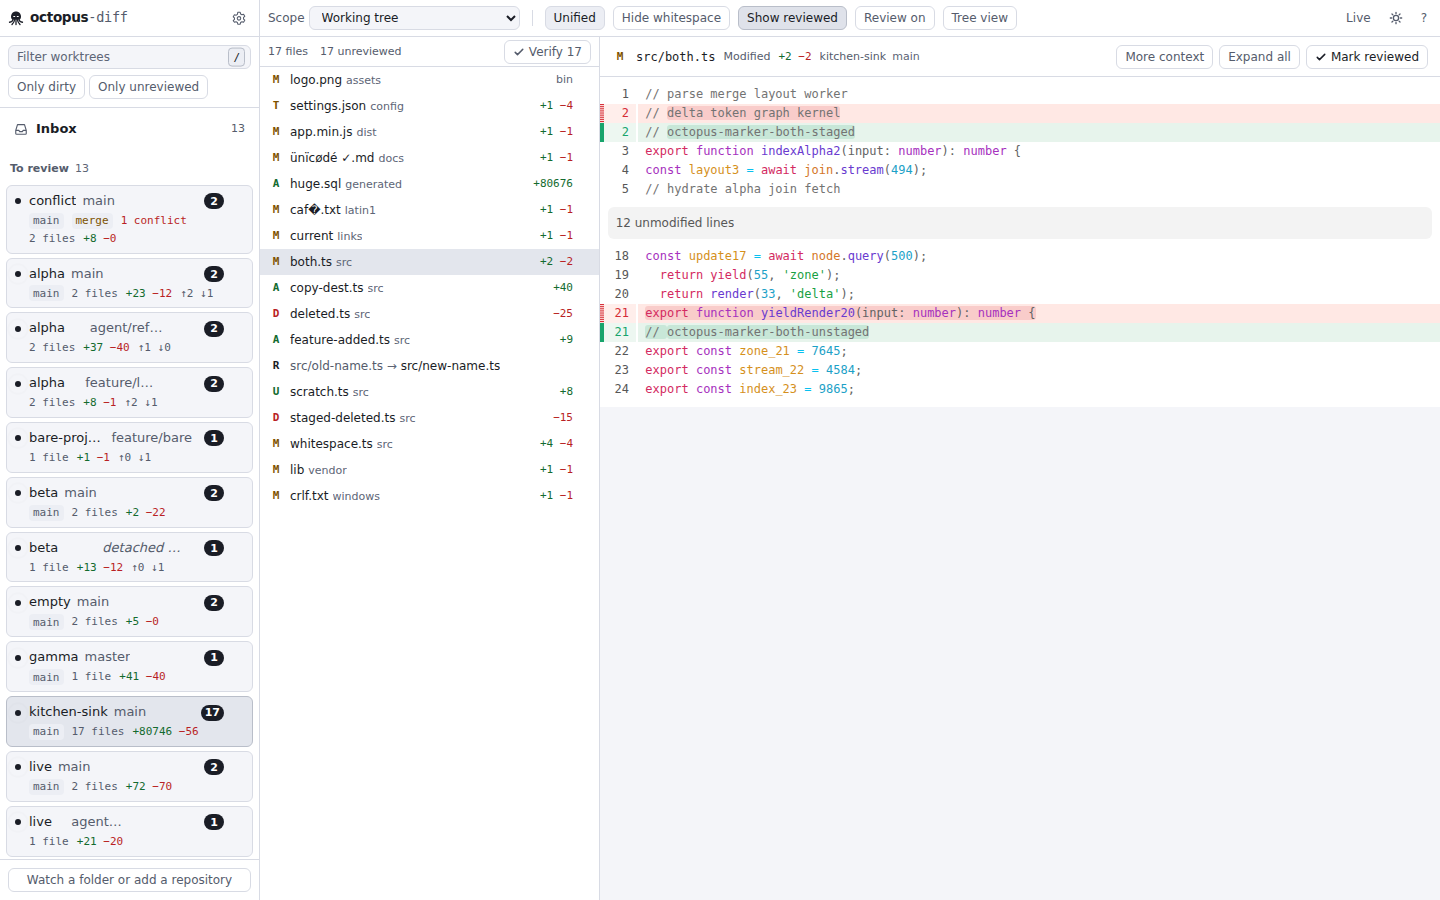
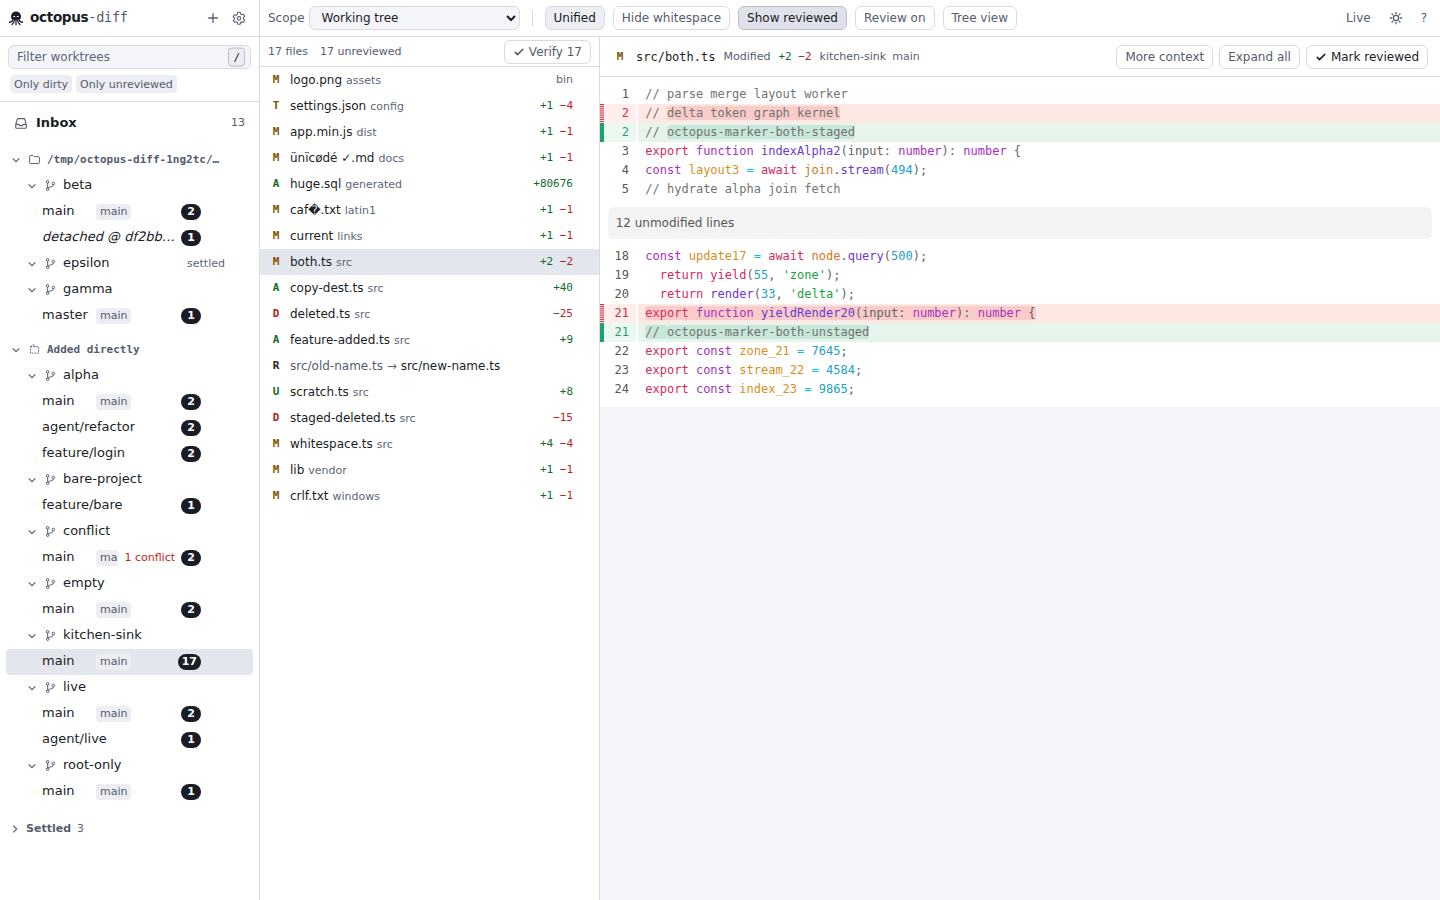
web: rows clip overflowing chips, keep the branch readable, drop the main chip on the default branch; docs: UX round 4 decisions #47–#52, identity, plan, README, report, screenshots

Changed region(s): [[0.0, 0.0933, 0.1875, 0.9956]]

diff --git a/apps/web/src/components/Sidebar.tsx b/apps/web/src/components/Sidebar.tsx
@@ -133,11 +133,14 @@ function rowTitle(row: WorktreeRow): string {
 
 /** `main`, the worktree source, an in-progress operation: the chips after the name. */
 function RowChips({ row }: { row: WorktreeRow }) {
-  const { worktree, summary } = row;
+  const { worktree, summary, project } = row;
   const source = worktree.isMain ? null : worktreeSource(worktree.path);
+  // The main checkout on the default branch is the expected case; the chip speaks only when the
+  // main checkout sits elsewhere, or when the project has no default branch to compare with.
+  const mainChip = worktree.isMain && worktree.branch !== project.defaultBranch;
   return (
     <>
-      {worktree.isMain && (
+      {mainChip && (
         <span className="od-chip" title="Main checkout">
           main
         </span>
@@ -240,13 +243,13 @@ const WorktreeItem = memo(function WorktreeItem({
           settled && !selected ? 'text-muted hover:text-fg' : ''
         }`}
       >
-        <span className="relative flex min-w-0 flex-1 items-baseline gap-1.5">
+        <span className="relative flex min-w-0 flex-1 items-baseline gap-1.5 overflow-hidden">
           {active && <span className="od-pulse" aria-hidden="true" />}
           {variant !== 'folder' && (
             <span className="min-w-0 shrink truncate font-medium">{row.project.name}</span>
           )}
           <span
-            className={`min-w-0 truncate ${
+            className={`min-w-[3rem] truncate ${
               variant === 'folder' ? 'shrink text-fg' : 'shrink-[2] text-muted'
             } ${worktree.branch ? '' : 'italic'}`}
           >

diff --git a/docs/reports/ux-sidebar.md b/docs/reports/ux-sidebar.md
@@ -118,7 +118,14 @@ Model: `RowState = blocked | attention | active | settled`, `rowState()` takes a
 
 ## Verification
 
-See the table at the end of this section (filled after the runs).
+| Command | Result |
+|---|---|
+| `pnpm check` (lint, typecheck, build, unit tests) | exit 0: Biome 311 files clean; contracts 71, git-core 126, web 107, fixtures 48, daemon 155, e2e-vitest 5, cli 139 passed |
+| `pnpm test:e2e` | 68 passed (2.2 m); read-only proof 12 control repos, 3209 lock polls, 0 violations; no spec changed |
+| `pnpm --filter @octopus-diff/e2e screenshots` | 10 PNGs regenerated in `docs/screenshots/` with real defaults (shelf closed) |
+
+Rendering checked on the fixture screenshots: folder and project headers, one-line rows, the `settled` word on a quiet
+project, the closed shelf with its count, the header `+`, the filter chips.
 
 ## Contract changes
 
